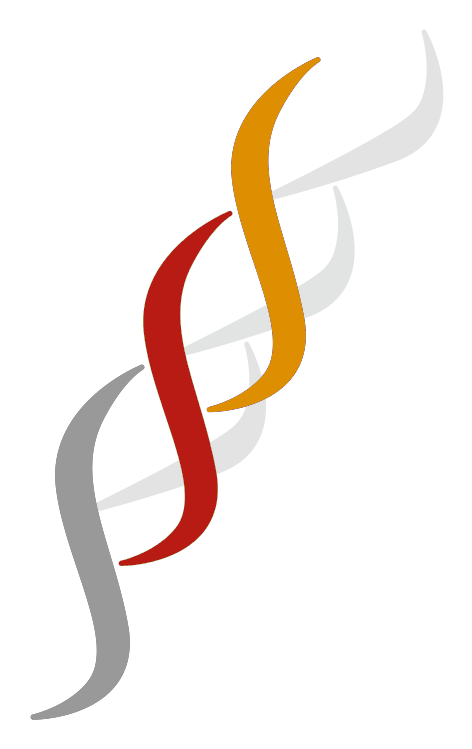
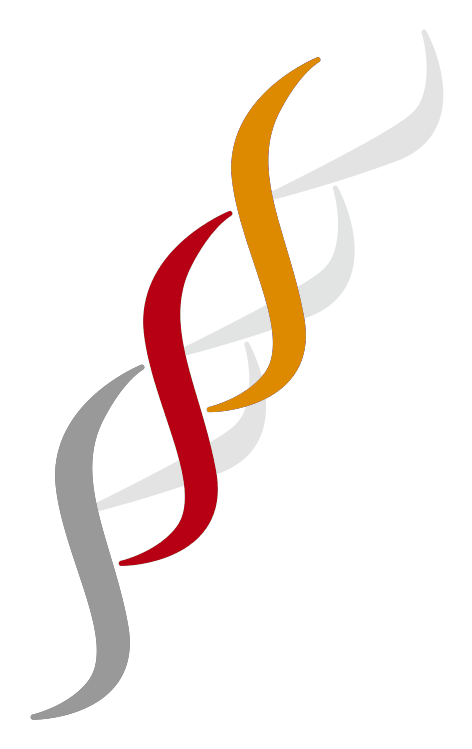
Kleurwissel compleet: amber=Verbeteren, rood=Lerende doorheen hele site
- main.css: --kleur-verbeteren amber, --kleur-lerende-org rood
- Alle logo PNG's (v2+v3, wit+kleur) amber/rood gewisseld
- Spiraal-afbeeldingen homepage amber/rood gewisseld
- Badges en leaflets bijgewerkt
- Cache-busting ?v=2 op alle logo/spiraal-verwijzingen

Changed region(s): [[0.2669, 0.2764, 0.5042, 0.7677]]

diff --git a/assets/css/main.css b/assets/css/main.css
@@ -1,7 +1,7 @@
 /* ═══════════════════════════════════════════════════════════════
    Excellence with Passion — Gedeelde stijlen v3
-   --kleur-verbeteren   #e3001b  (Continu Verbeteren)
-   --kleur-lerende-org  #c07800  (Lerende Organisatie)
+   --kleur-verbeteren   #c07800  (Continu Verbeteren)
+   --kleur-lerende-org  #e3001b  (Lerende Organisatie)
    --kleur-waardestroom #9d9ea0  (Continue Waardestroom)
    --kleur-industrie    #1e2d3d  (sector donkerblauw)
    --kleur-glastuinbouw #1a2e22  (sector donkergroen)
@@ -12,8 +12,8 @@
 :root {
   /* ── Definitieve merkkleur (semantisch) ── */
   --kleur-waardestroom:   #9d9ea0;  /* grijs  — Continue Waardestroom  */
-  --kleur-verbeteren:     #e3001b;  /* rood   — Continu Verbeteren     */
-  --kleur-lerende-org:    #c07800;  /* amber  — Lerende Organisatie    */
+  --kleur-verbeteren:     #c07800;  /* amber  — Continu Verbeteren     */
+  --kleur-lerende-org:    #e3001b;  /* rood   — Lerende Organisatie    */
   --kleur-industrie:      #1e2d3d;  /* donkerblauw — sectorkleur       */
   --kleur-glastuinbouw:   #1a2e22;  /* donkergroen — sectorkleur       */
   --kleur-achtergrond:    #f5f2ec;  /* warm wit                        */
@@ -21,9 +21,9 @@
   --kleur-mist:           #e8e4db;  /* lichte secties                  */
 
   /* ── Aliassen voor bestaande CSS (backward-compat) ── */
-  --red:          var(--kleur-verbeteren);
+  --red:          #e3001b;
   --red-dim:      #ff4d60;
-  --amber:        var(--kleur-lerende-org);
+  --amber:        #c07800;
   --amber-dim:    #e09030;
   --grey:         var(--kleur-waardestroom);
   --grey-dark:    #6d6e70;

diff --git a/index.html b/index.html
@@ -122,7 +122,7 @@
       <div class="swirls-label" data-cms="swirls_label">De drie swirls</div>
       <h2 class="swirls-title" data-cms="swirls_titel">Één model. Drie krachten.</h2>
     </div>
-    <img src="assets/img/ewp-spiraal-v3-cropped.png" alt="De EwP Passion Swirl — drie verweven krachten" class="swirl-diagram">
+    <img src="assets/img/ewp-spiraal-v3-cropped.png?v=2" alt="De EwP Passion Swirl — drie verweven krachten" class="swirl-diagram">
   </div>
   <div class="swirls-grid">
 
@@ -214,7 +214,7 @@
 <!-- ── Footer ── -->
 <footer>
   <a href="index.html" class="footer-logo">
-    <img src="assets/img/ewp-logo-v3-white.png" alt="Excellence with Passion" class="footer-logo-img">
+    <img src="assets/img/ewp-logo-v3-white.png?v=2" alt="Excellence with Passion" class="footer-logo-img">
   </a>
   <div class="footer-nav">
     <a href="visie-passion-swirl.html" class="footer-link">Visie</a>

diff --git a/visie/assessment.html b/visie/assessment.html
@@ -88,7 +88,7 @@
 
 <nav>
   <a href="../index.html" class="nav-logo">
-    <img src="../assets/img/ewp-logo-v2.png" alt="Excellence with Passion" class="nav-logo-img">
+    <img src="../assets/img/ewp-logo-v2.png?v=2" alt="Excellence with Passion" class="nav-logo-img">
   </a>
   <ul class="nav-links">
     <li><a href="passion-swirl.html" class="active">Visie</a></li>
@@ -314,7 +314,7 @@
 
 <footer>
   <a href="../index.html" class="footer-logo">
-    <img src="../assets/img/ewp-logo-v2-white.png" alt="Excellence with Passion" class="footer-logo-img">
+    <img src="../assets/img/ewp-logo-v2-white.png?v=2" alt="Excellence with Passion" class="footer-logo-img">
   </a>
   <div class="footer-nav">
     <a href="hoe-wij-werken.html"    class="footer-link">&larr; Hoe wij werken</a>

diff --git a/visie/leiderschap.html b/visie/leiderschap.html
@@ -87,7 +87,7 @@
 
 <nav>
   <a href="../index.html" class="nav-logo">
-    <img src="../assets/img/ewp-logo-v2.png" alt="Excellence with Passion" class="nav-logo-img">
+    <img src="../assets/img/ewp-logo-v2.png?v=2" alt="Excellence with Passion" class="nav-logo-img">
   </a>
   <ul class="nav-links">
     <li><a href="passion-swirl.html" class="active">Visie</a></li>
@@ -333,7 +333,7 @@
 
 <footer>
   <a href="../index.html" class="footer-logo">
-    <img src="../assets/img/ewp-logo-v2-white.png" alt="Excellence with Passion" class="footer-logo-img">
+    <img src="../assets/img/ewp-logo-v2-white.png?v=2" alt="Excellence with Passion" class="footer-logo-img">
   </a>
   <div class="footer-nav">
     <a href="hoe-wij-werken.html" class="footer-link">Hoe wij werken &rarr;</a>

diff --git a/sector/industrie.html b/sector/industrie.html
@@ -101,7 +101,7 @@
 
 <nav>
   <a href="../index.html" class="nav-logo">
-    <img src="../assets/img/ewp-logo-v2.png" alt="Excellence with Passion" class="nav-logo-img">
+    <img src="../assets/img/ewp-logo-v2.png?v=2" alt="Excellence with Passion" class="nav-logo-img">
   </a>
   <ul class="nav-links">
     <li><a href="../visie/passion-swirl.html">Visie</a></li>
@@ -317,7 +317,7 @@
 
 <footer>
   <a href="../index.html" class="footer-logo">
-    <img src="../assets/img/ewp-logo-v2-white.png" alt="Excellence with Passion" class="footer-logo-img">
+    <img src="../assets/img/ewp-logo-v2-white.png?v=2" alt="Excellence with Passion" class="footer-logo-img">
   </a>
   <div class="footer-nav">
     <a href="glastuinbouw.html" class="footer-link">Naar Glastuinbouw &rarr;</a>

diff --git a/visie/passion-swirl.html b/visie/passion-swirl.html
@@ -159,7 +159,7 @@
 
 <nav>
   <a href="../index.html" class="nav-logo">
-    <img src="../assets/img/ewp-logo-v2.png" alt="Excellence with Passion" class="nav-logo-img">
+    <img src="../assets/img/ewp-logo-v2.png?v=2" alt="Excellence with Passion" class="nav-logo-img">
   </a>
   <ul class="nav-links">
     <li><a href="passion-swirl.html" class="active">Visie</a></li>
@@ -525,7 +525,7 @@
 
 <footer>
   <a href="../index.html" class="footer-logo">
-    <img src="../assets/img/ewp-logo-v2-white.png" alt="Excellence with Passion" class="footer-logo-img">
+    <img src="../assets/img/ewp-logo-v2-white.png?v=2" alt="Excellence with Passion" class="footer-logo-img">
   </a>
   <div class="footer-nav">
     <a href="leiderschap.html" class="footer-link">Leiderschap &rarr;</a>

diff --git a/visie/hoe-wij-werken.html b/visie/hoe-wij-werken.html
@@ -89,7 +89,7 @@
 
 <nav>
   <a href="../index.html" class="nav-logo">
-    <img src="../assets/img/ewp-logo-v2.png" alt="Excellence with Passion" class="nav-logo-img">
+    <img src="../assets/img/ewp-logo-v2.png?v=2" alt="Excellence with Passion" class="nav-logo-img">
   </a>
   <ul class="nav-links">
     <li><a href="passion-swirl.html" class="active">Visie</a></li>
@@ -320,7 +320,7 @@
 
 <footer>
   <a href="../index.html" class="footer-logo">
-    <img src="../assets/img/ewp-logo-v2-white.png" alt="Excellence with Passion" class="footer-logo-img">
+    <img src="../assets/img/ewp-logo-v2-white.png?v=2" alt="Excellence with Passion" class="footer-logo-img">
   </a>
   <div class="footer-nav">
     <a href="assessment.html"  class="footer-link">Assessment &rarr;</a>

diff --git a/sector/glastuinbouw.html b/sector/glastuinbouw.html
@@ -129,7 +129,7 @@
 
 <nav>
   <a href="../index.html" class="nav-logo">
-    <img src="../assets/img/ewp-logo-v2.png" alt="Excellence with Passion" class="nav-logo-img">
+    <img src="../assets/img/ewp-logo-v2.png?v=2" alt="Excellence with Passion" class="nav-logo-img">
   </a>
   <ul class="nav-links">
     <li><a href="../visie/passion-swirl.html">Visie</a></li>
@@ -403,7 +403,7 @@
 
 <footer>
   <a href="../index.html" class="footer-logo">
-    <img src="../assets/img/ewp-logo-v2-white.png" alt="Excellence with Passion" class="footer-logo-img">
+    <img src="../assets/img/ewp-logo-v2-white.png?v=2" alt="Excellence with Passion" class="footer-logo-img">
   </a>
   <div class="footer-nav">
     <a href="industrie.html" class="footer-link">Naar Industrie &rarr;</a>

diff --git a/assets/js/nav.js b/assets/js/nav.js
@@ -9,7 +9,7 @@
   var sectorActive = sectorPages.indexOf(page) !== -1;
 
   var html = '<nav id="main-nav">'
-    + '<a href="index.html" class="nav-logo"><img src="assets/img/ewp-logo-v3-nav.png" alt="Excellence with Passion" class="nav-logo-img"></a>'
+    + '<a href="index.html" class="nav-logo"><img src="assets/img/ewp-logo-v3-nav.png?v=2" alt="Excellence with Passion" class="nav-logo-img"></a>'
     + '<button class="nav-hamburger" id="nav-hamburger" aria-label="Menu openen" aria-expanded="false"><span></span><span></span><span></span></button>'
     + '<div class="nav-overlay" id="nav-overlay"></div>'
     + '<ul class="nav-links" id="nav-links">'

diff --git a/visie-assessment.html b/visie-assessment.html
@@ -303,7 +303,7 @@
 
 <footer>
   <a href="index.html" class="footer-logo">
-    <img src="assets/img/ewp-logo-v3-white.png" alt="Excellence with Passion" class="footer-logo-img">
+    <img src="assets/img/ewp-logo-v3-white.png?v=2" alt="Excellence with Passion" class="footer-logo-img">
   </a>
   <div class="footer-nav">
     <a href="visie-hoe-wij-werken.html"    class="footer-link">&larr; Hoe wij werken</a>

diff --git a/sector-industrie.html b/sector-industrie.html
@@ -311,7 +311,7 @@
 
 <footer>
   <a href="index.html" class="footer-logo">
-    <img src="assets/img/ewp-logo-v3-white.png" alt="Excellence with Passion" class="footer-logo-img">
+    <img src="assets/img/ewp-logo-v3-white.png?v=2" alt="Excellence with Passion" class="footer-logo-img">
   </a>
   <div class="footer-nav">
     <a href="sector-glastuinbouw.html" class="footer-link">Naar Glastuinbouw &rarr;</a>

diff --git a/visie-leiderschap.html b/visie-leiderschap.html
@@ -322,7 +322,7 @@
 
 <footer>
   <a href="index.html" class="footer-logo">
-    <img src="assets/img/ewp-logo-v3-white.png" alt="Excellence with Passion" class="footer-logo-img">
+    <img src="assets/img/ewp-logo-v3-white.png?v=2" alt="Excellence with Passion" class="footer-logo-img">
   </a>
   <div class="footer-nav">
     <a href="visie-hoe-wij-werken.html" class="footer-link">Hoe wij werken &rarr;</a>
